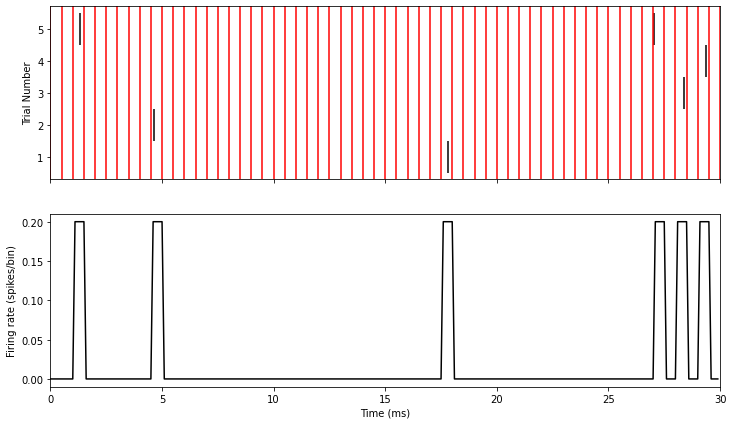
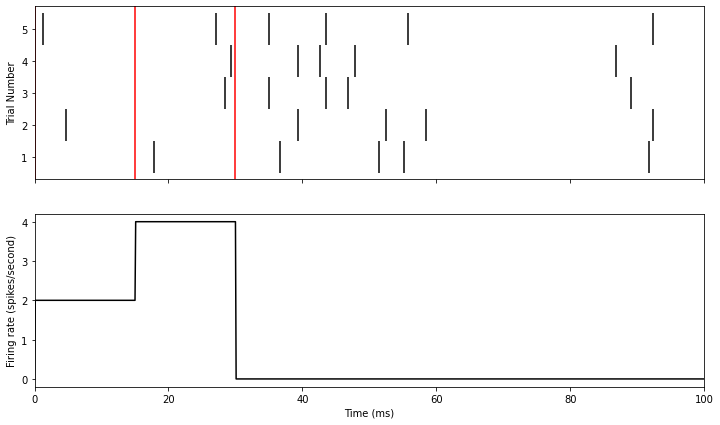
deploy: 690835620e76b97e638110986dfab230d244db02

diff --git a/Notes/01_VisualizingNeuralResponses.html b/Notes/01_VisualizingNeuralResponses.html
@@ -305,8 +305,11 @@
 <p class="admonition-title"><strong>Coding Corner!</strong> Plotting rasters in Python</p>
 <p>We can create raster plots in matplotlib by using <a class="reference external" href="https://matplotlib.org/stable/api/_as_gen/matplotlib.pyplot.eventplot.html"><code class="docutils literal notranslate"><span class="pre">plt.eventplot</span></code></a>.</p>
 <p>The first argument is a list of arrays, where each array contains the spike times for that row of the raster. For example, if you are plotting multiple trials of one neuron, each array would contain the spike times of one trial.</p>
-<p>For example, in the raster plot created below, the neuron spiked at 5.4 milliseconds, 11.1 ms, 15.6 ms, 16.7 ms, and 27.8 ms in trial 1. In trial 2, it spiked at 1.4 ms, 11.9 ms, 15.9 ms, 17.7 ms, and 28 ms.</p>
-<div class="highlight-python notranslate"><div class="highlight"><pre><span></span><span class="c1"># Set up spike time data</span>
+<p>For example, in the raster plot created below, we have neural data for 5 trials for 100 ms per trial. The neuron spiked at 17.82 milliseconds, 36.63 ms, 51.48 ms, 55.41 ms, and 91.74 ms in trial 1. In trial 2, it spiked at 4.62 ms, 39.27 ms, 52.47 ms, 58.41 ms, and 92.4 ms.</p>
+<div class="highlight-python notranslate"><div class="highlight"><pre><span></span><span class="n">n_trials</span> <span class="o">=</span> <span class="mi">5</span>
+<span class="n">trial_length</span> <span class="o">=</span> <span class="mi">100</span> <span class="c1"># ms</span>
+
+<span class="c1"># Set up spike time data</span>
 <span class="n">all_sp_time_list</span> <span class="o">=</span> <span class="p">[</span><span class="n">np</span><span class="o">.</span><span class="n">array</span><span class="p">([</span><span class="mf">17.82</span><span class="p">,</span> <span class="mf">36.63</span><span class="p">,</span> <span class="mf">51.48</span><span class="p">,</span> <span class="mf">55.11</span><span class="p">,</span> <span class="mf">91.74</span><span class="p">]),</span>
                     <span class="n">np</span><span class="o">.</span><span class="n">array</span><span class="p">([</span> <span class="mf">4.62</span><span class="p">,</span> <span class="mf">39.27</span><span class="p">,</span> <span class="mf">52.47</span><span class="p">,</span> <span class="mf">58.41</span><span class="p">,</span> <span class="mf">92.4</span><span class="p">]),</span>
                     <span class="n">np</span><span class="o">.</span><span class="n">array</span><span class="p">([</span><span class="mf">28.38</span><span class="p">,</span> <span class="mf">34.98</span><span class="p">,</span> <span class="mf">43.56</span><span class="p">,</span> <span class="mf">46.86</span><span class="p">,</span> <span class="mf">89.1</span><span class="p">]),</span>
@@ -320,7 +323,7 @@
 <span class="c1"># Label x and y axes (with units!)</span>
 <span class="n">ax</span><span class="o">.</span><span class="n">set</span><span class="p">(</span><span class="n">xlabel</span> <span class="o">=</span> <span class="s1">&#39;Time (ms)&#39;</span><span class="p">,</span> 
        <span class="n">ylabel</span> <span class="o">=</span> <span class="s1">&#39;Trial Number&#39;</span><span class="p">,</span>
-       <span class="n">xlim</span> <span class="o">=</span> <span class="p">[</span><span class="mi">0</span><span class="p">,</span> <span class="mi">100</span><span class="p">],</span>
+       <span class="n">xlim</span> <span class="o">=</span> <span class="p">[</span><span class="mi">0</span><span class="p">,</span> <span class="n">trial_length</span><span class="p">],</span>
        <span class="n">ylim</span> <span class="o">=</span> <span class="p">[</span><span class="o">-</span><span class="mf">.7</span><span class="p">,</span> <span class="mf">4.7</span><span class="p">],</span>
        <span class="n">yticks</span> <span class="o">=</span> <span class="p">[</span><span class="mi">0</span><span class="p">,</span> <span class="mi">1</span><span class="p">,</span> <span class="mi">2</span><span class="p">,</span> <span class="mi">3</span><span class="p">,</span> <span class="mi">4</span><span class="p">],</span>
        <span class="n">yticklabels</span> <span class="o">=</span> <span class="p">[</span><span class="mi">1</span><span class="p">,</span> <span class="mi">2</span><span class="p">,</span> <span class="mi">3</span><span class="p">,</span> <span class="mi">4</span><span class="p">,</span> <span class="mi">5</span><span class="p">]);</span>
@@ -336,17 +339,51 @@
 </div>
 <div class="section" id="section-3-psths">
 <h2>Section 3: PSTHs<a class="headerlink" href="#section-3-psths" title="Permalink to this headline">¶</a></h2>
-<p>We can summarize the information over trials contained in a raster plot in a peri-stimulus time histogram (PSTH), also sometimes called a peri-event time histogram (PETH). In this plot, we want to show the average underlying firing rate over time. To do that, we need to use discrete chunks of time - we divide time into time bins of some length. For each time bin, we can then count the number of spikes in that time bin over all the trials. We can then get the average spikes/bin for that time bin during the trial as the the number of spikes divided by the number of trials. We can convert to spikes/second by dividing by the bin length in seconds.</p>
-<p>See Figure 3 for an example of the construction of a PSTH from 5 trials of neural data, where each trial is just 30 ms long. We use a bin width of 5 ms - the red vertical lines denote the bin edges. We then count up the number of spikes over all the trials (2 for the first time bin), divide by the number of trials (to get to 2/5 for the first time bin), and that is our average firing rate in spikes/bin for that part of the trial.</p>
+<p>We can summarize the information over trials contained in a raster plot in a peri-stimulus time histogram (PSTH), also sometimes called a peri-event time histogram (PETH). In this plot, we want to show the average underlying firing rate over time. To do that, we need to use discrete chunks of time - we divide time into time bins of some length.</p>
+<p>For each time bin, we can then count the number of spikes in that time bin over all the trials. We can then get the average spikes/bin for that time bin during the trial as the the number of spikes divided by the number of trials. We can convert to spikes/second by dividing by the bin length in seconds.</p>
+<div class="cell docutils container">
+<div class="cell_input docutils container">
+<div class="highlight-ipython3 notranslate"><div class="highlight"><pre><span></span><span class="c1"># Define bin width</span>
+<span class="n">bin_width</span> <span class="o">=</span> <span class="mi">20</span>
+
+<span class="c1"># Create bin edges</span>
+<span class="n">bin_edge_times</span> <span class="o">=</span> <span class="n">np</span><span class="o">.</span><span class="n">arange</span><span class="p">(</span><span class="mi">0</span><span class="p">,</span> <span class="n">trial_length</span><span class="o">+</span><span class="mf">.1</span><span class="p">,</span> <span class="n">bin_width</span><span class="p">)</span>
+
+<span class="n">fig</span><span class="p">,</span> <span class="n">ax</span> <span class="o">=</span> <span class="n">plt</span><span class="o">.</span><span class="n">subplots</span><span class="p">(</span><span class="mi">1</span><span class="p">,</span> <span class="mi">1</span><span class="p">,</span> <span class="n">figsize</span><span class="o">=</span><span class="p">(</span><span class="mi">12</span><span class="p">,</span> <span class="mi">3</span><span class="p">),</span> <span class="n">sharex</span><span class="o">=</span><span class="kc">True</span><span class="p">)</span>
+
+<span class="c1"># Make raster of this data</span>
+<span class="n">ax</span><span class="o">.</span><span class="n">eventplot</span><span class="p">(</span><span class="n">all_sp_time_list</span><span class="p">,</span> <span class="n">colors</span> <span class="o">=</span> <span class="s1">&#39;black&#39;</span><span class="p">)</span>
+<span class="n">ax</span><span class="o">.</span><span class="n">set</span><span class="p">(</span><span class="n">ylabel</span> <span class="o">=</span> <span class="s1">&#39;Trial Number&#39;</span><span class="p">,</span>
+      <span class="n">xlim</span> <span class="o">=</span> <span class="p">[</span><span class="mi">0</span><span class="p">,</span> <span class="n">trial_length</span><span class="p">],</span>
+      <span class="n">ylim</span> <span class="o">=</span> <span class="p">[</span><span class="o">-</span><span class="mf">.7</span><span class="p">,</span> <span class="mf">4.7</span><span class="p">],</span>
+      <span class="n">yticks</span> <span class="o">=</span> <span class="p">[</span><span class="mi">0</span><span class="p">,</span> <span class="mi">1</span><span class="p">,</span> <span class="mi">2</span><span class="p">,</span> <span class="mi">3</span><span class="p">,</span> <span class="mi">4</span><span class="p">],</span>
+      <span class="n">yticklabels</span> <span class="o">=</span> <span class="p">[</span><span class="mi">1</span><span class="p">,</span> <span class="mi">2</span><span class="p">,</span> <span class="mi">3</span><span class="p">,</span> <span class="mi">4</span><span class="p">,</span> <span class="mi">5</span><span class="p">]);</span>
+
+<span class="c1"># Plot bin vertical lines </span>
+<span class="k">for</span> <span class="n">bin_time</span> <span class="ow">in</span> <span class="n">bin_edge_times</span><span class="p">:</span>
+  <span class="n">ax</span><span class="o">.</span><span class="n">plot</span><span class="p">([</span><span class="n">bin_time</span><span class="p">,</span> <span class="n">bin_time</span><span class="p">],</span> <span class="p">[</span><span class="o">-</span><span class="mf">.7</span><span class="p">,</span> <span class="mf">4.7</span><span class="p">],</span> <span class="s1">&#39;r&#39;</span><span class="p">)</span>
+</pre></div>
+</div>
+</div>
+<div class="cell_output docutils container">
+<img alt="../_images/01_VisualizingNeuralResponses_19_0.png" src="../_images/01_VisualizingNeuralResponses_19_0.png" />
+</div>
+</div>
+<p><em>Figure 3: Example raster plot with red vertical lines indicating 20 ms bins</em></p>
+<div class="tip dropdown admonition">
+<p class="admonition-title"><strong>Stop and think!</strong> See Figure 3 to see a raster plot from 5 trials of neural data, where each trial is just 100 ms long. We want to compute a PSTH for this data with a bin width of 20 ms. On Figure 3, the red vertical lines denote the bin edges. What is the PSTH value in terms of spikes/seconds for the first 20 ms?</p>
+<p>There are 3 spikes in total in the first 20 ms. We divide 3 by the number of trials (5) and the bin length in seconds (.2) to get the firing rate in spikes/second.</p>
+<p>3/(5*0.02) = 30</p>
+</div>
 <div class="note dropdown admonition">
-<p class="admonition-title"><strong>Advanced Coding Challenge!</strong> Using the data in all_sp_time_list (defined above), compute the PSTH for a bin size of 5 ms. Make PSTH an array of shape (n_bins, ), where each element is the firing rate in terms of spikes/second for that bin.</p>
+<p class="admonition-title"><strong>Advanced Coding Challenge!</strong> Using the data in all_sp_time_list (defined above), compute the PSTH for a bin size of 20 ms. Make PSTH an array of shape (n_bins, ), where each element is the firing rate in terms of spikes/second for that bin.</p>
 <div class="highlight-python notranslate"><div class="highlight"><pre><span></span><span class="c1">## Keep in mind there are lots of ways of doing this!</span>
 
 <span class="c1"># Define bin width</span>
-<span class="n">bin_width</span> <span class="o">=</span> <span class="mi">5</span>
+<span class="n">bin_width</span> <span class="o">=</span> <span class="mi">20</span>
 
 <span class="c1"># Create bin edges</span>
-<span class="n">bin_edge_times</span> <span class="o">=</span> <span class="n">np</span><span class="o">.</span><span class="n">arange</span><span class="p">(</span><span class="mi">0</span><span class="p">,</span> <span class="mf">30.1</span><span class="p">,</span> <span class="n">bin_width</span><span class="p">)</span>
+<span class="n">bin_edge_times</span> <span class="o">=</span> <span class="n">np</span><span class="o">.</span><span class="n">arange</span><span class="p">(</span><span class="mi">0</span><span class="p">,</span> <span class="n">trial_length</span><span class="o">+</span><span class="mf">.1</span><span class="p">,</span> <span class="n">bin_width</span><span class="p">)</span>
 
 <span class="c1"># Concatenate all spike times into one array</span>
 <span class="n">concat_spikes</span> <span class="o">=</span> <span class="n">np</span><span class="o">.</span><span class="n">concatenate</span><span class="p">(</span><span class="n">all_sp_time_list</span><span class="p">,</span> <span class="n">axis</span><span class="o">=</span><span class="mi">0</span><span class="p">),</span>
@@ -355,8 +392,9 @@
 <span class="n">PSTH</span><span class="p">,</span> <span class="n">_</span> <span class="o">=</span> <span class="n">np</span><span class="o">.</span><span class="n">histogram</span><span class="p">(</span><span class="n">concat_spikes</span><span class="p">,</span> <span class="n">bins</span><span class="o">=</span><span class="n">bin_edge_times</span><span class="p">)</span> 
 
 <span class="c1"># Divide by number of trials and bin length to get spikes/second</span>
-<span class="c1">#PSTH = PSTH/(len(all_sp_time_list) * (bin_width/1000))</span>
-<span class="c1"># PSTH is an array of shape (6,) </span>
+<span class="n">PSTH</span> <span class="o">=</span> <span class="n">PSTH</span><span class="o">/</span><span class="p">(</span><span class="n">n_trials</span> <span class="o">*</span> <span class="p">(</span><span class="n">bin_width</span><span class="o">/</span><span class="mi">1000</span><span class="p">))</span>
+
+<span class="nb">print</span><span class="p">(</span><span class="n">PSTH</span><span class="p">)</span>
 </pre></div>
 </div>
 </div>
@@ -364,13 +402,13 @@
 <div class="cell_input docutils container">
 <div class="highlight-ipython3 notranslate"><div class="highlight"><pre><span></span><span class="c1"># @markdown </span>
 
-<span class="k">def</span> <span class="nf">plot_raster_and_PSTH</span><span class="p">(</span><span class="n">all_sp_time_list</span><span class="p">,</span> <span class="n">bin_edge_times</span><span class="p">,</span> <span class="n">binned_spikes</span><span class="p">):</span>
+<span class="k">def</span> <span class="nf">plot_raster_and_PSTH</span><span class="p">(</span><span class="n">all_sp_time_list</span><span class="p">,</span> <span class="n">bin_edge_times</span><span class="p">,</span> <span class="n">PSTH</span><span class="p">):</span>
   <span class="n">fig</span><span class="p">,</span> <span class="n">axes</span> <span class="o">=</span> <span class="n">plt</span><span class="o">.</span><span class="n">subplots</span><span class="p">(</span><span class="mi">2</span><span class="p">,</span> <span class="mi">1</span><span class="p">,</span> <span class="n">figsize</span><span class="o">=</span><span class="p">(</span><span class="mi">12</span><span class="p">,</span> <span class="mi">7</span><span class="p">),</span> <span class="n">sharex</span><span class="o">=</span><span class="kc">True</span><span class="p">)</span>
 
   <span class="c1"># Make raster of this data</span>
   <span class="n">axes</span><span class="p">[</span><span class="mi">0</span><span class="p">]</span><span class="o">.</span><span class="n">eventplot</span><span class="p">(</span><span class="n">all_sp_time_list</span><span class="p">,</span> <span class="n">colors</span> <span class="o">=</span> <span class="s1">&#39;black&#39;</span><span class="p">)</span>
   <span class="n">axes</span><span class="p">[</span><span class="mi">0</span><span class="p">]</span><span class="o">.</span><span class="n">set</span><span class="p">(</span><span class="n">ylabel</span> <span class="o">=</span> <span class="s1">&#39;Trial Number&#39;</span><span class="p">,</span>
-        <span class="n">xlim</span> <span class="o">=</span> <span class="p">[</span><span class="mi">0</span><span class="p">,</span> <span class="mi">30</span><span class="p">],</span>
+        <span class="n">xlim</span> <span class="o">=</span> <span class="p">[</span><span class="mi">0</span><span class="p">,</span> <span class="n">trial_length</span><span class="p">],</span>
         <span class="n">ylim</span> <span class="o">=</span> <span class="p">[</span><span class="o">-</span><span class="mf">.7</span><span class="p">,</span> <span class="mf">4.7</span><span class="p">],</span>
         <span class="n">yticks</span> <span class="o">=</span> <span class="p">[</span><span class="mi">0</span><span class="p">,</span> <span class="mi">1</span><span class="p">,</span> <span class="mi">2</span><span class="p">,</span> <span class="mi">3</span><span class="p">,</span> <span class="mi">4</span><span class="p">],</span>
         <span class="n">yticklabels</span> <span class="o">=</span> <span class="p">[</span><span class="mi">1</span><span class="p">,</span> <span class="mi">2</span><span class="p">,</span> <span class="mi">3</span><span class="p">,</span> <span class="mi">4</span><span class="p">,</span> <span class="mi">5</span><span class="p">]);</span>
@@ -380,28 +418,38 @@
     <span class="n">axes</span><span class="p">[</span><span class="mi">0</span><span class="p">]</span><span class="o">.</span><span class="n">plot</span><span class="p">([</span><span class="n">bin_time</span><span class="p">,</span> <span class="n">bin_time</span><span class="p">],</span> <span class="p">[</span><span class="o">-</span><span class="mf">.7</span><span class="p">,</span> <span class="mf">4.7</span><span class="p">],</span> <span class="s1">&#39;r&#39;</span><span class="p">)</span>
 
   <span class="c1"># Plot PSTH</span>
-  <span class="n">x_vals</span> <span class="o">=</span> <span class="n">np</span><span class="o">.</span><span class="n">arange</span><span class="p">(</span><span class="mi">0</span><span class="p">,</span> <span class="mi">30</span><span class="p">,</span> <span class="mf">.1</span><span class="p">)</span>
+  <span class="n">x_vals</span> <span class="o">=</span> <span class="n">np</span><span class="o">.</span><span class="n">arange</span><span class="p">(</span><span class="mi">0</span><span class="p">,</span> <span class="n">trial_length</span><span class="p">,</span> <span class="mf">.1</span><span class="p">)</span>
   <span class="n">y_vals</span> <span class="o">=</span> <span class="n">np</span><span class="o">.</span><span class="n">zeros</span><span class="p">((</span><span class="nb">len</span><span class="p">(</span><span class="n">x_vals</span><span class="p">)))</span>
   <span class="k">for</span> <span class="n">i_bin</span> <span class="ow">in</span> <span class="nb">range</span><span class="p">(</span><span class="nb">len</span><span class="p">(</span><span class="n">bin_edge_times</span><span class="p">)</span> <span class="o">-</span> <span class="mi">1</span><span class="p">):</span>
-    <span class="n">y_vals</span><span class="p">[(</span><span class="n">x_vals</span> <span class="o">&gt;</span> <span class="n">bin_edge_times</span><span class="p">[</span><span class="n">i_bin</span><span class="p">])</span> <span class="o">&amp;</span> <span class="p">(</span><span class="n">x_vals</span> <span class="o">&lt;=</span> <span class="n">bin_edge_times</span><span class="p">[</span><span class="n">i_bin</span> <span class="o">+</span> <span class="mi">1</span><span class="p">])]</span> <span class="o">=</span> <span class="n">binned_spikes</span><span class="p">[</span><span class="n">i_bin</span><span class="p">]</span> <span class="o">/</span> <span class="mi">5</span>
+    <span class="n">y_vals</span><span class="p">[(</span><span class="n">x_vals</span> <span class="o">&gt;</span> <span class="n">bin_edge_times</span><span class="p">[</span><span class="n">i_bin</span><span class="p">])</span> <span class="o">&amp;</span> <span class="p">(</span><span class="n">x_vals</span> <span class="o">&lt;=</span> <span class="n">bin_edge_times</span><span class="p">[</span><span class="n">i_bin</span> <span class="o">+</span> <span class="mi">1</span><span class="p">])]</span> <span class="o">=</span> <span class="n">PSTH</span><span class="p">[</span><span class="n">i_bin</span><span class="p">]</span> 
 
   <span class="n">axes</span><span class="p">[</span><span class="mi">1</span><span class="p">]</span><span class="o">.</span><span class="n">plot</span><span class="p">(</span><span class="n">x_vals</span><span class="p">,</span> <span class="n">y_vals</span><span class="p">,</span>  <span class="s1">&#39;k&#39;</span><span class="p">);</span>
   <span class="n">axes</span><span class="p">[</span><span class="mi">1</span><span class="p">]</span><span class="o">.</span><span class="n">set</span><span class="p">(</span><span class="n">xlabel</span> <span class="o">=</span> <span class="s1">&#39;Time (ms)&#39;</span><span class="p">,</span> 
-              <span class="n">ylabel</span> <span class="o">=</span> <span class="s1">&#39;Firing rate (spikes/bin)&#39;</span><span class="p">);</span>
+              <span class="n">ylabel</span> <span class="o">=</span> <span class="s1">&#39;Firing rate (spikes/second)&#39;</span><span class="p">);</span>
 
 
-<span class="c1"># Compute PSTH</span>
-<span class="n">bin_width</span> <span class="o">=</span> <span class="mi">5</span>
-<span class="n">bin_edge_times</span> <span class="o">=</span> <span class="n">np</span><span class="o">.</span><span class="n">arange</span><span class="p">(</span><span class="mi">0</span><span class="p">,</span> <span class="mf">30.1</span><span class="p">,</span> <span class="n">bin_width</span><span class="p">)</span>
-<span class="n">binned_spikes</span><span class="p">,</span> <span class="n">_</span> <span class="o">=</span> <span class="n">np</span><span class="o">.</span><span class="n">histogram</span><span class="p">(</span><span class="n">np</span><span class="o">.</span><span class="n">concatenate</span><span class="p">(</span><span class="n">all_sp_time_list</span><span class="p">,</span> <span class="n">axis</span><span class="o">=</span><span class="mi">0</span><span class="p">),</span> <span class="n">bins</span> <span class="o">=</span> <span class="n">bin_edge_times</span><span class="p">)</span>
+<span class="c1"># Define bin width</span>
+<span class="n">bin_width</span> <span class="o">=</span> <span class="mi">20</span>
+
+<span class="c1"># Create bin edges</span>
+<span class="n">bin_edge_times</span> <span class="o">=</span> <span class="n">np</span><span class="o">.</span><span class="n">arange</span><span class="p">(</span><span class="mi">0</span><span class="p">,</span> <span class="n">trial_length</span><span class="o">+</span><span class="mf">.1</span><span class="p">,</span> <span class="n">bin_width</span><span class="p">)</span>
+
+<span class="c1"># Concatenate all spike times into one array</span>
+<span class="n">concat_spikes</span> <span class="o">=</span> <span class="n">np</span><span class="o">.</span><span class="n">concatenate</span><span class="p">(</span><span class="n">all_sp_time_list</span><span class="p">,</span> <span class="n">axis</span><span class="o">=</span><span class="mi">0</span><span class="p">),</span>
+
+<span class="c1"># Get number of spikes in each bin</span>
+<span class="n">PSTH</span><span class="p">,</span> <span class="n">_</span> <span class="o">=</span> <span class="n">np</span><span class="o">.</span><span class="n">histogram</span><span class="p">(</span><span class="n">concat_spikes</span><span class="p">,</span> <span class="n">bins</span><span class="o">=</span><span class="n">bin_edge_times</span><span class="p">)</span> 
+
+<span class="c1"># Divide by number of trials and bin length to get spikes/second</span>
+<span class="n">PSTH</span> <span class="o">=</span> <span class="n">PSTH</span><span class="o">/</span><span class="p">(</span><span class="n">n_trials</span> <span class="o">*</span> <span class="p">(</span><span class="n">bin_width</span><span class="o">/</span><span class="mi">1000</span><span class="p">))</span>
 
 <span class="c1"># Visualize</span>
-<span class="n">plot_raster_and_PSTH</span><span class="p">(</span><span class="n">all_sp_time_list</span><span class="p">,</span> <span class="n">bin_edge_times</span><span class="p">,</span> <span class="n">binned_spikes</span><span class="p">)</span>
+<span class="n">plot_raster_and_PSTH</span><span class="p">(</span><span class="n">all_sp_time_list</span><span class="p">,</span> <span class="n">bin_edge_times</span><span class="p">,</span> <span class="n">PSTH</span><span class="p">)</span>
 </pre></div>
 </div>
 </div>
 <div class="cell_output docutils container">
-<img alt="../_images/01_VisualizingNeuralResponses_22_0.png" src="../_images/01_VisualizingNeuralResponses_22_0.png" />
+<img alt="../_images/01_VisualizingNeuralResponses_25_0.png" src="../_images/01_VisualizingNeuralResponses_25_0.png" />
 </div>
 </div>
 <p><em>Figure 3: PSTH (bottom row) constructed from a raster plot (top row) with a bin width of 5 ms.</em></p>
@@ -424,7 +472,7 @@
 </div>
 </div>
 <div class="cell_output docutils container">
-<img alt="../_images/01_VisualizingNeuralResponses_26_0.png" src="../_images/01_VisualizingNeuralResponses_26_0.png" />
+<img alt="../_images/01_VisualizingNeuralResponses_29_0.png" src="../_images/01_VisualizingNeuralResponses_29_0.png" />
 </div>
 </div>
 <p><em>Figure 4: PSTH (bottom row) constructed from a raster plot (top row) with a bin width of 15 ms. This bin width is too large and you lose a lot of temporal information!</em></p>
@@ -443,7 +491,7 @@
 </div>
 </div>
 <div class="cell_output docutils container">
-<img alt="../_images/01_VisualizingNeuralResponses_29_0.png" src="../_images/01_VisualizingNeuralResponses_29_0.png" />
+<img alt="../_images/01_VisualizingNeuralResponses_32_0.png" src="../_images/01_VisualizingNeuralResponses_32_0.png" />
 </div>
 </div>
 <p><em>Figure 5: PSTH (bottom row) constructed from a raster plot (top row) with a bin width of .5 ms. This bin width is too small - the PSTH conveys a lot about the exact spike timings in this set of trials but doesn’t give us a sense of how the underlying firing rate is changing over time</em></p>
@@ -502,7 +550,7 @@
 </div>
 </div>
 <div class="cell_output docutils container">
-<img alt="../_images/01_VisualizingNeuralResponses_34_0.png" src="../_images/01_VisualizingNeuralResponses_34_0.png" />
+<img alt="../_images/01_VisualizingNeuralResponses_37_0.png" src="../_images/01_VisualizingNeuralResponses_37_0.png" />
 </div>
 </div>
 <p><em>Figure 6: Raster plots of motor neuron response for 10 trials for each reach condition. Please note that this is faked data for illustrative purposes. The blue vertical line indicates the start of each reach.</em></p>

diff --git a/searchindex.js b/searchindex.js
@@ -1,1 +1,1 @@
-Search.setIndex({docnames:["Notes/01_VisualizingNeuralResponses","intro"],envversion:{"sphinx.domains.c":2,"sphinx.domains.changeset":1,"sphinx.domains.citation":1,"sphinx.domains.cpp":4,"sphinx.domains.index":1,"sphinx.domains.javascript":2,"sphinx.domains.math":2,"sphinx.domains.python":3,"sphinx.domains.rst":2,"sphinx.domains.std":2,"sphinx.ext.intersphinx":1,sphinx:56},filenames:["Notes/01_VisualizingNeuralResponses.ipynb","intro.md"],objects:{},objnames:{},objtypes:{},terms:{"0":0,"06":0,"10":0,"100":0,"1000":0,"11":0,"12":0,"123":0,"135":0,"15":0,"1500":0,"16":0,"17":0,"18":0,"180":0,"2014":0,"2019":0,"225":0,"24":0,"250":0,"27":0,"270":0,"28":0,"29":0,"30":0,"315":0,"32":0,"34":0,"36":0,"37":0,"38":0,"39":0,"4":0,"40":0,"41":0,"42":0,"43":0,"45":0,"46":0,"47":0,"48":0,"51":0,"52":0,"54":0,"55":0,"56":0,"57":0,"58":0,"62":0,"63":0,"7":0,"74":0,"750":0,"77":0,"79":0,"8":0,"82":0,"85":0,"86":0,"89":0,"9":0,"90":0,"91":0,"92":0,"98":0,"case":0,"import":0,"long":0,"new":0,"return":0,"true":0,"while":0,A:0,BY:0,By:0,For:0,In:0,It:0,ONE:0,The:0,These:1,To:0,_:0,abl:0,across:0,adapt:0,add:0,after:0,ahead:0,al:0,all:0,allow:0,almost:0,also:0,alwai:0,amygdala:0,analysi:0,angl:0,anim:0,append:0,ar:0,arang:0,argument:0,arm:0,arrow:0,assess:0,automat:0,averag:0,ax:0,axi:0,b:0,basic:1,becaus:0,behavior:0,below:0,better:0,bin_edge_tim:0,bin_tim:0,bin_width:0,binned_spik:0,black:0,blue:0,both:0,bottom:0,brain:0,bunch:0,call:0,cannot:0,cc:0,certain:0,chang:0,chose:0,chunk:0,collect:0,color:0,common:0,concat_spik:0,concaten:0,concept:0,condit:0,construct:0,contain:0,context:0,convei:0,convert:0,correl:0,cortex:0,could:0,count:0,cover:[0,1],creat:0,decod:1,def:0,degre:0,denot:0,differ:0,discret:0,displai:0,divid:0,doesn:0,dure:0,easi:0,edg:0,eight:0,els:0,encod:1,eneuro:0,enough:0,et:0,even:0,event:0,eventplot:0,everi:0,exact:0,exactli:0,exampl:0,excel:0,f:0,fake:0,few:0,fig:0,figsiz:0,firing_r:0,first:0,flatten:0,follow:0,font:0,found:0,from:0,get:0,give:0,given:0,glue:0,go:0,gothard:0,hard:0,have:0,help:0,histogram:0,hold:0,how:0,hypothesi:0,i_angl:0,i_bin:0,i_trial:0,illustr:0,imagin:0,importantli:0,increas:0,indic:0,inform:0,initi:0,instead:0,interact:0,interpret:0,iter:0,ito:0,its:0,joystick:0,just:0,k:0,keep:0,label:0,larg:0,len:0,length:0,less:0,let:0,line:0,list:0,loop:0,lose:0,markdown:0,matplotlib:0,mean:0,mice:0,might:0,millisecond:0,mind:0,model:1,monkei:0,more:0,most:0,motor:0,movement:0,much:0,multipl:0,myst_nb:0,n_trial:0,need:0,neurosci:0,neuroscientist:0,noisi:0,note:[0,1],now:0,np:0,number:0,numer:0,numpi:0,occur:0,offset:0,onc:0,one:0,ones:0,onset:0,onto:0,other:0,our:0,output:0,over:0,overemphas:0,paramet:0,part:0,particular:0,perform:0,perhap:0,peri:0,period:0,peth:0,pleas:0,plo:0,plot_raster_and_psth:0,plt:0,poisson:0,popul:0,present:0,pretti:0,propos:0,protocol:0,purpos:0,putnam:0,pyplot:0,quickli:0,r:0,random:0,rang:0,rcparam:0,re:0,reach_firing_r:0,reach_sp_tim:0,receiv:0,red:0,repeatedli:0,repons:0,repres:0,respect:0,row:0,same:0,see:0,seed:0,sens:0,sensor:0,separ:0,sharei:0,sharex:0,shortli:0,show:0,silent:0,simultan:0,singl:0,some:0,someon:0,sometim:0,sp_time:0,start:0,step:0,stimulu:0,studi:0,style:0,subplot:0,sum:0,summar:0,sync:0,synchron:0,t:0,tempor:0,than:0,thei:0,thing:0,tight_layout:0,time:0,titl:0,top:0,trial:0,typic:0,under:0,underli:0,understand:0,unit:0,until:0,updat:0,variabl:0,veri:0,vertic:0,video:0,viz:0,wa:0,wai:0,watch:0,we:0,when:0,which:0,word:0,x:0,x_val:0,xlabel:0,xlim:0,y:0,y_val:0,ylabel:0,ylim:0,your:0,ytick:0,yticklabel:0,zero:0},titles:["01 - Visualizing Neural Responses","Introduction"],titleterms:{"01":0,"1":0,"2":0,"3":0,"5":0,"6":0,"do":0,about:0,abov:0,advanc:0,all_sp_time_list:0,an:0,arrai:0,base:0,big:0,bin:0,can:0,challeng:0,choos:0,code:0,comput:0,conclud:0,corner:0,cortico:0,data:0,defin:0,direct:0,doe:0,each:0,element:0,experi:0,experiment:0,figur:0,fire:0,happen:0,hippocamp:0,infer:0,introduct:1,like:0,look:0,lot:0,make:0,ms:0,n_bin:0,neural:0,neuron:0,next:0,plot:0,psth:0,python:0,raster:0,rate:0,reach:0,record:0,respond:0,respons:0,s:0,second:0,section:0,set:0,shape:0,should:0,shown:0,size:0,slice:0,small:0,spike:0,stop:0,term:0,thi:0,think:0,too:0,up:0,us:0,visual:0,want:0,what:0,where:0,width:0,would:0,you:0}})
+Search.setIndex({docnames:["Notes/01_VisualizingNeuralResponses","intro"],envversion:{"sphinx.domains.c":2,"sphinx.domains.changeset":1,"sphinx.domains.citation":1,"sphinx.domains.cpp":4,"sphinx.domains.index":1,"sphinx.domains.javascript":2,"sphinx.domains.math":2,"sphinx.domains.python":3,"sphinx.domains.rst":2,"sphinx.domains.std":2,"sphinx.ext.intersphinx":1,sphinx:56},filenames:["Notes/01_VisualizingNeuralResponses.ipynb","intro.md"],objects:{},objnames:{},objtypes:{},terms:{"0":0,"02":0,"06":0,"10":0,"1000":0,"11":0,"12":0,"123":0,"135":0,"15":0,"1500":0,"17":0,"18":0,"180":0,"2014":0,"2019":0,"225":0,"24":0,"250":0,"27":0,"270":0,"28":0,"29":0,"30":0,"315":0,"32":0,"34":0,"36":0,"37":0,"38":0,"39":0,"4":0,"40":0,"41":0,"42":0,"43":0,"45":0,"46":0,"47":0,"48":0,"51":0,"52":0,"54":0,"55":0,"56":0,"57":0,"58":0,"62":0,"63":0,"7":0,"74":0,"750":0,"77":0,"79":0,"8":0,"82":0,"85":0,"86":0,"89":0,"90":0,"91":0,"92":0,"98":0,"case":0,"import":0,"new":0,"return":0,"true":0,"while":0,A:0,BY:0,By:0,For:0,In:0,It:0,ONE:0,The:0,There:0,These:1,To:0,_:0,abl:0,across:0,adapt:0,add:0,after:0,ahead:0,al:0,all:0,allow:0,almost:0,also:0,alwai:0,amygdala:0,analysi:0,angl:0,anim:0,append:0,ar:0,arang:0,argument:0,arm:0,arrow:0,assess:0,automat:0,averag:0,ax:0,axi:0,b:0,basic:1,becaus:0,behavior:0,below:0,better:0,bin_edge_tim:0,bin_tim:0,bin_width:0,binned_spik:0,black:0,blue:0,both:0,bottom:0,brain:0,bunch:0,call:0,cannot:0,cc:0,certain:0,chang:0,chose:0,chunk:0,collect:0,color:0,common:0,concat_spik:0,concaten:0,concept:0,condit:0,construct:0,contain:0,context:0,convei:0,convert:0,correl:0,cortex:0,could:0,count:0,cover:[0,1],creat:0,decod:1,def:0,degre:0,differ:0,discret:0,displai:0,divid:0,doesn:0,dure:0,easi:0,eight:0,els:0,encod:1,eneuro:0,enough:0,et:0,even:0,event:0,eventplot:0,everi:0,exact:0,exactli:0,exampl:0,excel:0,f:0,fake:0,few:0,fig:0,figsiz:0,firing_r:0,flatten:0,follow:0,font:0,found:0,get:0,give:0,given:0,glue:0,go:0,gothard:0,hard:0,have:0,help:0,histogram:0,hold:0,how:0,hypothesi:0,i_angl:0,i_bin:0,i_trial:0,illustr:0,imagin:0,importantli:0,increas:0,indic:0,inform:0,initi:0,instead:0,interact:0,interpret:0,iter:0,ito:0,its:0,joystick:0,k:0,keep:0,label:0,larg:0,len:0,length:0,less:0,let:0,list:0,loop:0,lose:0,markdown:0,matplotlib:0,mean:0,mice:0,might:0,millisecond:0,mind:0,model:1,monkei:0,more:0,most:0,motor:0,movement:0,much:0,multipl:0,myst_nb:0,n_trial:0,need:0,neurosci:0,neuroscientist:0,noisi:0,note:[0,1],now:0,np:0,number:0,numer:0,numpi:0,occur:0,offset:0,onc:0,one:0,ones:0,onset:0,onto:0,other:0,our:0,output:0,over:0,overemphas:0,paramet:0,particular:0,per:0,perform:0,perhap:0,peri:0,period:0,peth:0,pleas:0,plo:0,plot_raster_and_psth:0,plt:0,poisson:0,popul:0,present:0,pretti:0,print:0,propos:0,protocol:0,purpos:0,putnam:0,pyplot:0,quickli:0,r:0,random:0,rang:0,rcparam:0,re:0,reach_firing_r:0,reach_sp_tim:0,receiv:0,repeatedli:0,repons:0,repres:0,respect:0,row:0,same:0,seed:0,sens:0,sensor:0,separ:0,sharei:0,sharex:0,shortli:0,show:0,silent:0,simultan:0,singl:0,some:0,someon:0,sometim:0,sp_time:0,start:0,step:0,stimulu:0,studi:0,style:0,subplot:0,sum:0,summar:0,sync:0,synchron:0,t:0,tempor:0,than:0,thei:0,thing:0,tight_layout:0,time:0,titl:0,top:0,total:0,trial_length:0,typic:0,under:0,underli:0,understand:0,unit:0,until:0,updat:0,variabl:0,veri:0,video:0,viz:0,wa:0,wai:0,watch:0,when:0,which:0,word:0,x:0,x_val:0,xlabel:0,xlim:0,y:0,y_val:0,ylabel:0,ylim:0,your:0,ytick:0,yticklabel:0,zero:0},titles:["01 - Visualizing Neural Responses","Introduction"],titleterms:{"01":0,"1":0,"100":0,"2":0,"20":0,"3":0,"5":0,"6":0,"do":0,"long":0,On:0,about:0,abov:0,advanc:0,all_sp_time_list:0,an:0,arrai:0,base:0,big:0,bin:0,can:0,challeng:0,choos:0,code:0,comput:0,conclud:0,corner:0,cortico:0,data:0,defin:0,denot:0,direct:0,doe:0,each:0,edg:0,element:0,experi:0,experiment:0,figur:0,fire:0,first:0,from:0,happen:0,hippocamp:0,infer:0,introduct:1,just:0,like:0,line:0,look:0,lot:0,make:0,ms:0,n_bin:0,neural:0,neuron:0,next:0,plot:0,psth:0,python:0,raster:0,rate:0,reach:0,record:0,red:0,respond:0,respons:0,s:0,second:0,section:0,see:0,set:0,shape:0,should:0,shown:0,size:0,slice:0,small:0,spike:0,stop:0,term:0,thi:0,think:0,too:0,trial:0,up:0,us:0,valu:0,vertic:0,visual:0,want:0,we:0,what:0,where:0,width:0,would:0,you:0}})
